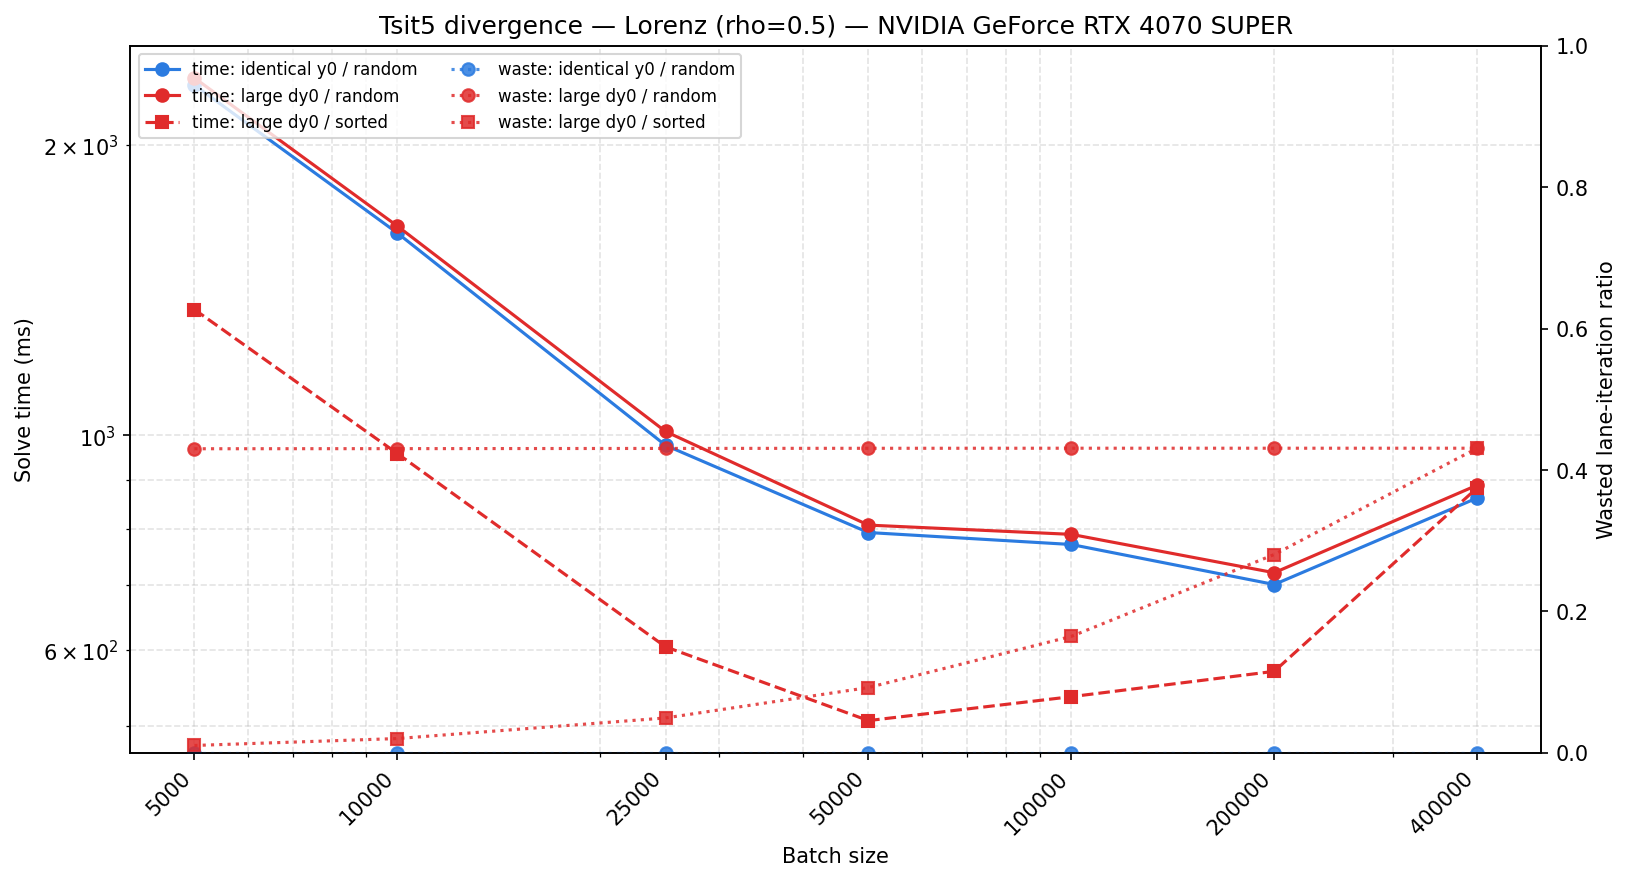
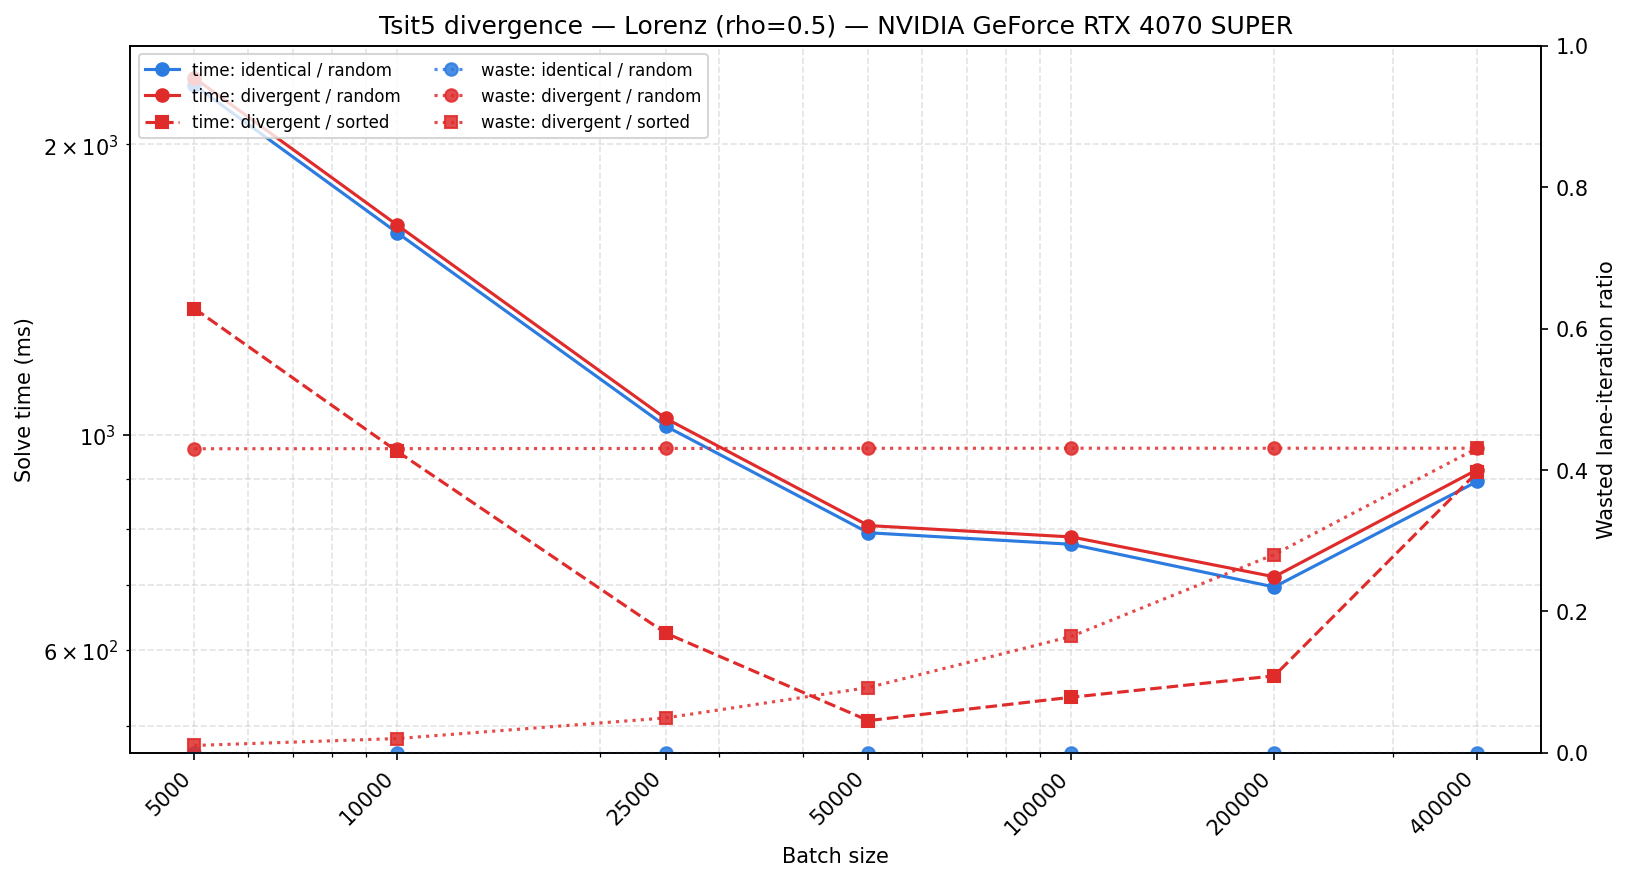
Ran script 3

diff --git a/scripts/3_tsit5_lorenz_pure_jax_batching/main.py b/scripts/3_tsit5_lorenz_pure_jax_batching/main.py
@@ -59,7 +59,7 @@ jax.config.update("jax_enable_x64", True)
 
 _N_TRAJ = 400_000
 _T_SPAN = (0.0, 5.0)
-_N_RUNS = 5
+_N_RUNS = 1
 _BATCH_SIZES = (5_000, 10_000, 25_000, 50_000, 100_000, 200_000, 400_000)
 _SOLVER_KWARGS = {"first_step": 1e-4, "rtol": 1e-6, "atol": 1e-8}
 
@@ -86,8 +86,8 @@ class Grouping:
 
 
 _SCENARIOS = (
-    Scenario("ic_identical", "identical y0", "#2b7be0"),
-    Scenario("ic_large", "large dy0", "#e02b2b"),
+    Scenario("ic_identical", "identical", "#2b7be0"),
+    Scenario("ic_large", "divergent", "#e02b2b"),
 )
 
 _GROUPINGS = (
